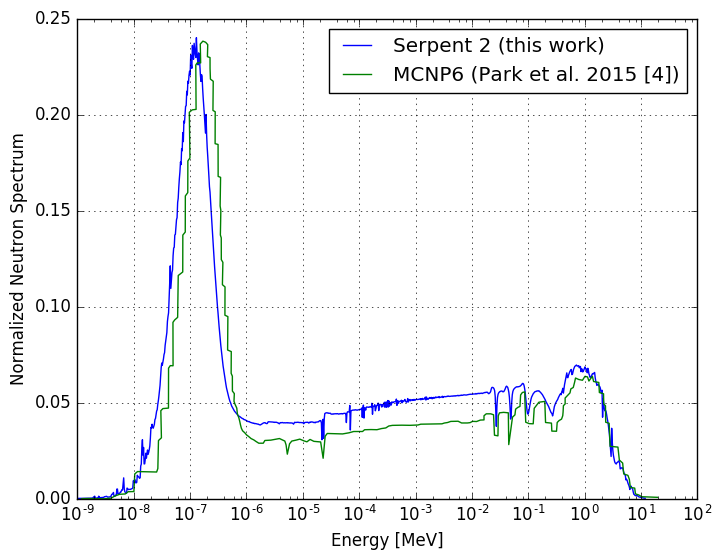
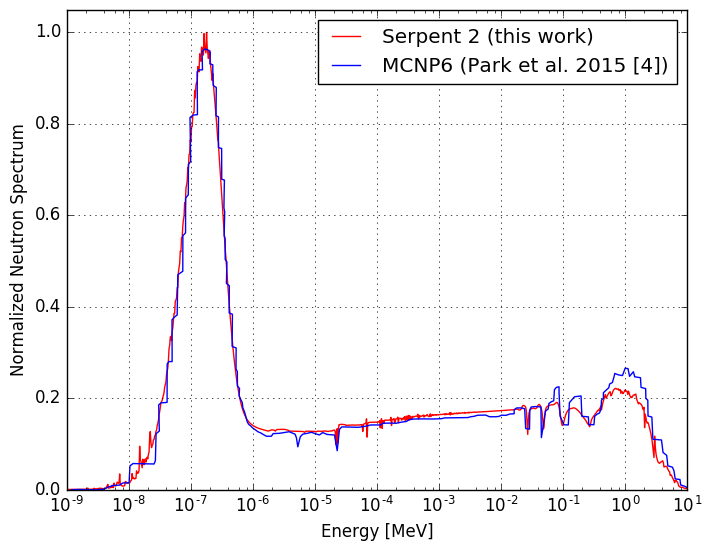
Spectrum and K-eff recalculated with fuel share 13%, reviewers comments accepted

diff --git a/full-core_msbr_model.tex b/full-core_msbr_model.tex
@@ -1,6 +1,6 @@
 \documentclass{anstrans}
 %%%%%%%%%%%%%%%%%%%%%%%%%%%%%%%%%%%
-\title{Full-core analysis of thorium-fueled molten salt breeder reactor using the SERPENT 2 Monte Carlo code}
+\title{Full-core analysis of thorium-fueled Molten Salt Breeder Reactor using the SERPENT 2 Monte Carlo code}
 
 \author{Andrei Rykhlevskii, Alexander Lindsay, Kathryn Huff}
 
@@ -17,88 +17,90 @@ Urbana, IL
 \usepackage{booktabs} % nice rules (thick lines) for tables
 \usepackage{microtype} % improves typography for PDF
 \usepackage[section]{placeins}
+\usepackage[acronym,toc]{glossaries}  % acronyms inclusion
+\include{acros}
 \graphicspath{{figures/}}
-
+\captionsetup{justification   = raggedright,
+              singlelinecheck = false}
 \newcommand{\SN}{S$_N$}
 \renewcommand{\vec}[1]{\bm{#1}} %vector is bold italic
 \newcommand{\vd}{\bm{\cdot}} % slightly bold vector dot
 \newcommand{\grad}{\vec{\nabla}} % gradient
 \newcommand{\ud}{\mathop{}\!\mathrm{d}} % upright derivative symbol
+\makeglossaries
 
 \begin{document}
 %%%%%%%%%%%%%%%%%%%%%%%%%%%%%%%%%%%%%%%%%%%%%%%%%%%%%%%%%%%%%%%%%%%%%%%%%%%%%%%%
 \section{Introduction}
-The molten salt reactor (MSR) is an advanced type of reactor which was developed at Oak Ridge National Laboratory (ORNL) in the 1950s and was operated in the 1960s. In the MSR, fluorides of fissile and/or fertile materials (i.e. $UF_4$, $PuF_3$ and/or $ThF_4$) are mixed with carrier salts to form a liquid fuel which is circulated in a loop-type primary circuit \cite{haubenreich_experience_1970}. This innovation leads to immediate advantages over traditional, solid-fueled, reactors. These include near-atmospheric pressure in the primary loop, relatively high coolant temperature, outstanding neutron economy, a high level of inherent safety, reduced fuel preprocessing, and the ability to continuously remove fission products and add fissile and/or fertile elements \cite{leblanc_molten_2010}. 
+The \gls{MSR} is an advanced type of reactor which was developed at \gls{ORNL} in the 1950s and was operated in the 1960s. In the MSR, fluorides of fissile and/or fertile materials (i.e. UF$_4$, PuF$_3$ and/or ThF$_4$) are mixed with carrier salts to form a liquid fuel which is circulated in a loop-type primary circuit \cite{haubenreich_experience_1970}. This innovation leads to immediate advantages over traditional, solid-fueled, reactors. These include near-atmospheric pressure in the primary loop, relatively high coolant temperature, outstanding neutron economy, a high level of inherent safety, reduced fuel preprocessing, and the ability to continuously remove fission products and add fissile and/or fertile elements \cite{leblanc_molten_2010}. 
 
-The thermal spectrum Molten Salt Breeder Reactor (MSBR) was designed specifically to realize the promise of the thorium fuel cycle which allows the use of natural thorium instead of enriched uranium as the fertile element. Thorium breeds the fissile $^{233}U$ and avoids uranium enrichment. The mixture of $LiF-BeF_2-ThF_4-UF_4-PuF_3$ has a melting point of $499^\circ$C, a low vapor pressure at operating temperatures, and good flow and heat transfer properties \cite{robertson_conceptual_1971}. The MSBR geometry is difficult to describe in computer code input and usually require major approximations to proceed \cite{park_whole_2015}. 
+The thermal spectrum \gls{MSBR} was designed specifically to realize the promise of the thorium fuel cycle which allows the use of natural thorium instead of enriched uranium as the fertile element. Thorium breeds the fissile $^{233}$U and avoids uranium enrichment. The mixture of LiF-BeF$_2$-ThF$_4$-UF$_4$-PuF$_3$ has a melting point of $499^\circ$C, a low vapor pressure at operating temperatures, and good flow and heat transfer properties \cite{robertson_conceptual_1971}. The \gls{MSBR} geometry is difficult to describe in computer code input and usually require major approximations to proceed \cite{park_whole_2015}. 
 
-For the development of MSBR research, this paper demonstrates an advanced whole-core three-dimensional model developed using a continuous-energy the Serpent 2 Monte Carlo reactor physics calculation code and cross-verification with existing MCNP6 results \cite{park_whole_2015,leppanen_serpent_2012}. This neutronics model is of sufficient fidelity to inform optimization of fuel salt composition and fuel utilization, neutron fluxes and spectrum evaluation, and for depletion calculations using built-in Serpent burnup module. Moreover, this model in the future will be employed to generate problem-oriented homogenized nuclear data (multi-group cross sections and diffusion constants) for deterministic reactor codes, multi-physics simulations \cite{fridman_use_2011,valtavirta_coupled_2017}, and for routine applications.
+For the development of MSBR research, this paper demonstrates an advanced whole-core three-dimensional model developed using a continuous-energy the Serpent 2 Monte Carlo reactor physics calculation code and cross-verification with existing MCNP6 results \cite{park_whole_2015,leppanen_serpent_2012}. This neutronics model is of sufficient fidelity to inform optimization of fuel salt composition and fuel utilization, neutron fluxes and spectrum evaluation. Moreover, this model in the future will be employed for depeletion calculations, generation problem-oriented homogenized nuclear data (multi-group cross sections and diffusion constants) for deterministic reactor codes, multi-physics simulations \cite{fridman_use_2011,valtavirta_coupled_2017}, and for routine applications.
 
-All calculations presented in this paper were performed using the Serpent 2 code version 2.1.28. Compared with Serpent 1, Serpent 2 has many more useful features and contains a complete redesign of memory management using hybrid OpenMP + MPI parallelization, which is important in depletion calculations using computer clusters with multiple cores \cite{leppanen_serpent_2015}. Before burnup calculations could be undertaken, MSBR model was verified. In Section 2, a brief description of the MSBR geometry model is given. In Section 3 the results are presented and discussed. Section 4 reflected conclusions and plans for the future research.
+All calculations presented in this paper were performed using the Serpent 2 code version 2.1.28. Compared to Serpent 1, Serpent 2 has many more useful features and contains a complete redesign of memory management using hybrid OpenMP + MPI parallelization, which is important in depletion calculations using computer clusters with multiple cores \cite{leppanen_serpent_2015}. In Section 2, a brief description of the MSBR geometry model is given. In Section 3 the results are presented and discussed. Section 4 reflected conclusions and plans for the future research.
 
 %%%%%%%%%%%%%%%%%%%%%%%%%%%%%%%%%%%%%%%%%%%%%%%%%%%%%%%%%%%%%%%%%%%%%%%%%%%%%%%%
 \section{MSBR design description}
-The MSBR vessel has diameter of 680 cm and a height of 610 cm. It contains molten fluoride fuel-salt mixture which performs two functions: to generate heat in the moderated region and to transport heat energy from the core to primary heat exchanger using the primary salt pump. The vessel also contains graphite blocks for neutron moderation and reflection. The reactor core has a central zone, Zone I, in which 13\% of the volume is fuel salt and 87\% graphite. The first zone is composed of 1320 graphite cells, 2 graphite control rods, and 2 safety rods consisting of boron carbide clad. The undermoderated zone, Zone II, with 37\% fuel salt, and radial reflector, surrounding the more active portion serves to diminish neutron leakage from the reactor core. This zone is formed of two kinds of elements: elements like those in Zone I except for a larger hole size (Zone II-A), and radially spread graphite slats (Zone II-B). At the outer of the core there are graphite reflector and vessel wall. Between the core and the reflector blocks located annulus which is 100\% salt needed to provide possibility removing and inserting a graphite assembly. 
+The MSBR vessel has diameter of 680 cm and a height of 610 cm. It contains molten fluoride fuel-salt mixture which performs two functions: to generate heat in the moderated region and to transport heat energy from the core to primary heat exchanger using the primary salt pump. The vessel also contains graphite blocks for neutron moderation and reflection. The reactor core has a central zone, Zone I, in which 13\% of the volume is fuel salt and 87\% graphite. The first zone is composed of 1320 graphite cells and 4 holes for control rods. Two holes are for graphite control rods which have both regulating and shimming functions for normal operation regimes, and two holes are for safety rods which are primarily for backup to assure sufficient negative reactivity for emergency situations. The undermoderated zone, Zone II, with 37\% fuel salt, and radial reflector, surrounding the more active portion serves to diminish neutron leakage from the reactor core. This zone is formed of two kinds of elements: elements like those in Zone I except for a larger hole size (Zone II-A), and radially spread graphite slats (Zone II-B). At the outer of the core, there are graphite reflector and vessel wall. Zones I and II are surrounded radially and axially by fuel salt. This space for fuel is necessarily for injection and flow of molten salt.
 
-Figure~\ref{fig:plan} shows the plan view of the whole-core configuration at the expected reactor operational level when all control rods are fully withdrawn from the core.  Figure~\ref{fig:elevation} shows the longitudinal section of the reactor. The violet color represents bare graphite, and the yellow represents fuel salt. The blue color shows Hastelloy-N, a material used for the plenum and vessel wall, and the black color is a void space. All figures of the core in this work generated using built-in Serpent plotter.
-\begin{figure}[!htb] % replace 't' with 'b' to force it to be on the bottom
+Fig.~\ref{fig:plan} shows the plan view of the whole-core configuration at the expected reactor operational level when both graphite control rods are fully inserted, and the safety rods are fully withdrawn. The safety rods only get inserted during an accident. 
+\begin{figure}[htbp!] % replace 't' with 'b' to force it to be on the bottom
   \centering
+  \vspace{-0.3em}
+  \includegraphics[width=0.95\linewidth]{figure_2_1.png}
+  \caption{Plan view of \gls{MSBR} core.}
   \vspace{-0.6em}
-  \includegraphics[width=0.93\linewidth]{figure_2_1.png}
-  \caption{Plan view of MSBR core.}
   \label{fig:plan}
 \end{figure}
+\FloatBarrier
+Fig.~\ref{fig:elevation} shows the longitudinal section of the reactor. The violet color represents bare graphite, and the yellow represents fuel salt. The blue color shows Hastelloy-N, a material used for the plenum and vessel wall, and the black color is a void space. In this work, all figures of the core were generated using the built-in Serpent plotter.
 
-\begin{figure}[ht] % replace 't' with 'b' to force it to be on the bottom
+\begin{figure}[htbp!] % replace 't' with 'b' to force it to be on the bottom
   \centering
   \includegraphics[width=\linewidth]{figure_2_2.png}
-  \caption{Elevation view of MSBR core.}
+  \caption{Elevation view of \gls{MSBR} core.}
   \label{fig:elevation}
 \end{figure}
 
 \subsection{Core Zone I and II-A}
-The central portion, called Zone I, is made up of $10.16cm\times10.16cm\times396.24cm$-long graphite elements. The fuel salt to graphite volume ratio of Zone I is 13.2\%, and the central hole has a diameter of $3.42cm$. Zone II has 37\% salt and central hole diameter of $6.604cm$. Both types of elements mostly have a rectangular shape with a part of cylinder sticking out at each corner to form salt flow between the graphite channels. Different sizes of elements are necessary to reduce the peak damage flux and power density in the center of the core to prevent local graphite damage. Figure~\ref{fig:zone12A} demonstrates the reconstructed graphite element utilized for this Monte Carlo model.
+The central portion, called Zone I, is made up of 10.16cm$\times$10.16cm$\times$396.24cm-long graphite elements. The fuel salt to graphite volume ratio of Zone I is 13\%, and the central hole has a diameter of 3.42cm. Zone II has 37\% salt and the central hole diameter of 6.604cm. Both types of elements mostly have a rectangular shape with a part of cylinder sticking out at each corner to form salt flow between the graphite channels. Different sizes of elements are necessary to reduce the peak damage flux and power density in the center of the core to prevent local graphite damage. Figure~\ref{fig:zone12A} demonstrates the elevation and sectional views of graphite elements utilized for this Monte Carlo model.
 
-\begin{figure}[h] % replace 't' with 'b' to force it to be on the bottom
+\subsection{Core Zone II-B}
+The second core zone is divided into two different zones: Zone II-A and Zone II-B. The graphite elements for Zone II-A are prismatic and form the first reflecting layer surrounding the core zone I. Zone II-B elements are in the form of rectangular slats spaced far enough apart to provide the 0.37 fuel salt volume fraction. Fig.~\ref{fig:zone2B} shows the outer Zone II, 5.08cm-wide annular space between the core graphite and the radial reflector graphite. The annulus contains 100\% fuel salt and serves to reduce the damage flux at the internal surface of the graphite reflector blocks. The reactor Zone II-B graphite 5.08cm-thick slats and various length in width (average width is about 26.67cm) are reconstructed as is in the model without any approximation. From the ORNL report \cite{robertson_conceptual_1971}, the suggested design of Zone II-B has 8 graphite elements every 45$^\circ$ with irregular shape as well as holes for the flow of salt and were simplified into a right circular hollow cylinder sector shape with the central hole. This is the only simplification for this model.
+\FloatBarrier
+\begin{figure}[htp!] % replace 't' with 'b' to force it to be on the bottom
   \centering
-  \includegraphics[width=0.96\linewidth]{figure_2_4.png}
+  \includegraphics[width=\linewidth]{figure_2_4.png}
   \caption{Zone I (left) and Zone II-A (right) elements.}
   \label{fig:zone12A}
 \end{figure}
-
-\subsection{Core Zone II-B}
-The second core zone is divided into two different zones: Zone II-A and Zone II-B. The graphite elements for Zone II-A are prismatic and form the first reflecting layer surrounding the core zone I. The elements for zone II-B made up in the form of rectangular slats spaced far enough apart to achieve 0.37 fuel salt volume fraction. Figure~\ref{fig:zone2B} shows the outer Zone II, 5.08cm-wide annular space between the core graphite and the radial reflector graphite. The annulus contains 100\% fuel salt and serves to reduce the damage flux at the internal surface of the graphite reflector blocks. The reactor Zone II-B graphite $5.08cm$-thick slats and various length in width (average width is about $26.67cm$) are reconstructed as is in the model without any approximation. From the ORNL report \cite{robertson_conceptual_1971}, the suggested design of Zone II-B has 8 graphite elements every $45^\circ$ with irregular shape as well as holes for the flow of salt and were simplified into a right circular hollow cylinder sector shape with the central hole. This is only simplification for this model.
-
 \subsection{Material composition}
-The fuel salt, the reactor graphite, and the modified Hastelloy N are exclusive MSBR materials which were created at ORNL. The isotope composition of each material at the initial state was described in detail in the MSBR conceptual design study \cite{robertson_conceptual_1971} and has been applied to Serpent model without any modification. 
-
-\begin{figure}[hb] % replace 't' with 'b' to force it to be on the bottom
+The fuel salt, the reactor graphite, and the modified HastelloyN are materials unique of the MSBR and were created at \gls{ORNL}. The initial fuel salt loading composition is LiF-BeF$_2$-ThF$_4$-$^{233}$UF$_4$ (71.8-16-12-0.2 mole \%). The lithium in the molten salt fuel is a fully enriched $^{7}$Li because $^{6}$Li is a very strong neutron poison and becomes tritium upon neutron capture. For cross section data generation ENDF/B-VII was employed \cite{chadwick_endf/b-vii.0:_2006}. The specific temperature was fixed for each material to correctly model the Doppler-broadening of resonance peaks when Serpent generate problem-oriented nuclear data library.
+%The isotope composition of each material at the initial state was described in detail in the MSBR conceptual design study \cite{robertson_conceptual_1971} and has been applied to Serpent model without any modification. %
+\begin{figure}[htbp!] % replace 't' with 'b' to force it to be on the bottom
   \centering
-  \includegraphics[width=0.93\linewidth]{figure_2_5.png}
+  \includegraphics[width=0.96\linewidth]{figure_2_5.png}
   \caption{Plan view of Zone II-B.}
   \label{fig:zone2B}
 \end{figure}
-
-The initial fuel salt loading composition is $LiF-BeF_2-ThF_4-^{233}UF_4-^{239}PuF_3$ (72-16-12-0.232-0.0006 mole \%). The lithium is enriched to 99.995\% $^{7}Li$ because $^{6}Li$ is a very strong neutron poison and becomes tritium upon neutron bombardment. In this study, the 0.005\% atomic fraction of $^{6}Li$ has been taken into account because even such a small amount of isotope with very high absorption cross section might significantly affect on effective multiplication factor. For cross section data generation ENDF/B-VII was employed \cite{chadwick_endf/b-vii.0:_2006}. %Specific temperature was fixed for each material to correctly model the Doppler-broadening of resonance peaks when Serpent generate problem-oriented nuclear data library.
-
+\FloatBarrier
 %%%%%%%%%%%%%%%%%%%%%%%%%%%%%%%%%%%%%%%%%%%%%%%%%%%%%%%%%%%%%%%%%%%%%%%%%%%%%%%%
 \section{Results and Analysis}
 The reactor physics calculation was carried out using the methods described earlier. This section presents calculation results, such as the effective multiplication factor for whole core, neutron flux spectrum, and temperature reactivity coefficients. The normalized neutron flux distribution is calculated for the whole core using continuous-energy nuclear data which allows to obtaining very smooth distribution. The temperature coefficients for both fuel salt solution and reactor graphite are computed by comparing effective multiplication factors for two temperatures in the working range.
-
-The MSBR criticality simulations were performed on one Intel Xeon E3-1225 3.3GHz processor wich has four physical cores. Each simulation took 23 minutes or 92 minutes per one core. A similar whole-core MSBR simulation using MCNP6 required approximately 890 minutes per core \cite{park_whole_2015}, consequently, Serpent 2 can provide tremendous computer costs savings for compute-heavy depletion calculations.
-
+ 	
 \subsection{Neutron spectrum}
-Figure~\ref{fig:spectrum} demonstrates the normalized neutron flux spectrum for the whole core in the energy range from $10^{-10}$ to $100 MeV$. The results show close fit with the MCNP simulation \cite{park_whole_2015}, especially in thermal energy range. 
+Fig.~\ref{fig:spectrum} demonstrates the normalized neutron flux spectrum for the whole core in the energy range from $10^{-9}$ to $10$ MeV. The results show close fit with the MCNP simulation \cite{park_whole_2015}, especially in thermal energy range. 
 \begin{figure}[h!] % replace 't' with 'b' to force it to be on the bottom
   \centering
-  \includegraphics[width=\linewidth]{figure_3_1.png} 
+  \includegraphics[width=1.05\linewidth]{figure_3_1.png} 
   \caption{Neutron flux spectrum of MSBR for MCNP6 and Serpent 2 model.}
   \label{fig:spectrum}
 \end{figure}
-It is important to obtain the epithermal and thermal spectrum to produce $^{233}U$ from $^{232}Th$ because radiative capture cross section of thorium monotonically decreasing from $10^{-10} MeV$ to $10^{-5} MeV$. Hardening the spectrim tends to significantly increasing resonance absorbtion in thorium and decreasing the absorptions in fissile and construction materials thus large amount of fissile material will be needed to make the reactor critical.
+It is important to obtain the epithermal and thermal spectrum to produce $^{233}$U from $^{232}$Th because radiative capture cross section of thorium monotonically decreasing from $10^{-10}$ MeV to $10^{-5}$ MeV. Hardening the spectrum tends to significantly increase resonance absorption in thorium and decreasing the absorptions in fissile and construction materials thus large amount of fissile material will be needed to make the reactor critical.
 
 \subsection{Effective multiplication factor}
-Table~\ref{tab:keff} shows the effective multiplication factor for both MCNP6 and Serpent 2 whole core models. The coefficient obtained using Serpent 2 is about 4.37\% higher than MCNP6 one. The discrepancy was ocurred most likely because the model used in Park et al. didn't take into account $^{239}PuF_3$, contained in the fuel salt solution. Plutonium-239 has very high fission cross section in thermal energy range and produce more neutrons per fission than $^{233}U$, consequently, multiplication factor for this case is higher.
+Table~\ref{tab:keff} shows the effective multiplication factor for both MCNP6 and Serpent 2 whole core models. The factor obtained using Serpent 2 is about 300 pcm lower than MCNP6 one, while standard deviations are 5 and 9 pcm, respectively. The discrepancy might occurred because the model used in Park \emph{et al.} has few simplification in Zone II geometry.
 %%%%%%%%%%%%%%%%%%%%%%%%%%%%%%%%%%%%%%%%
 \captionsetup[table]{
   labelsep = newline,
@@ -109,19 +111,19 @@ Table~\ref{tab:keff} shows the effective multiplication factor for both MCNP6 an
   skip = \medskipamount}
 \begin{table}[h!]
 %\centering
+\caption{Effective multiplication factor of whole core model.}
 \begin{tabular}{p{0.15\linewidth} p{0.3\linewidth} p{0.3\linewidth}} \toprule
       & Serpent2      & MCNP6 \cite{park_whole_2015}          
 \\ \midrule
-$K_{eff}$  & $1.05134\pm0.00116$ & $1.00736$
+K$_{eff}$  & 1.00389$\pm$0.00005 & 1.00736$\pm$0.00009
 \\
 \bottomrule
 \end{tabular}
-  \caption{Effective multiplication factor of whole core model.}
   \label{tab:keff}
 \end{table}
 %%%%%%%%%%%%%%%%%%%%%%%%%%%%%%%%%%%%%%%%%%%%%%%%%%%%%%%%%%%%%%%%%%%%%%%%%%%%%%%%
 \subsection{Temperature effect of reactivity}
-Table~\ref{tab:tcoef} represents the quantitive analysis of temperature effects on reactivity. Uncertainty for each temperature coefficient also was calculated and shown in Table~\ref{tab:tcoef}. The main physical principle underlying the reactor temperature feedback is expandsion of matter when it is heated. When the fuel salt temperature increases, the density of the salt decreases, but at the same time, the total volume of fuel salt in the core remains constant because it is defined by the space for fuel bounded by the graphite. When the reactor graphite temperature grows, the density of graphite declines which also frees up space for fuel salt. To determine temperature coefficients, three cases were considered:
+Table~\ref{tab:tcoef} represents the quantitive analysis of temperature effects on reactivity. Uncertainty for each temperature coefficient also was calculated and shown in Table~\ref{tab:tcoef}. The main physical principle underlying the reactor temperature feedback is an expansion of matter when it is heated. When the fuel salt temperature increases, the density of the salt decreases, but at the same time, the total volume of fuel salt in the core remains constant because it is defined by the space for fuel bounded by the graphite. When the reactor graphite temperature grows, the density of graphite declines which also frees up space for fuel salt. To determine temperature coefficients the cross-section temperatures for fuel and moderator were changed from 900K to 1200K. Three different cases were considered:
 \begin{enumerate}  
 \item Temperature of fuel salt rising from 900K to 1200K.
 \item Temperature of graphite rising from 900K to 1200K. 
@@ -138,29 +140,29 @@ Table~\ref{tab:tcoef} represents the quantitive analysis of temperature effects 
   skip = \medskipamount}
 \begin{table}[h!]
 %\centering
+  \caption{Temperature coefficients of reactivity.}
 \begin{tabular}{p{0.22\linewidth} p{0.22\linewidth} p{0.21\linewidth} p{0.15\linewidth}} \toprule
    Reactivity coefficient [pcm/K]  & Serpent2      & MCNP6 \cite{park_whole_2015}   & Reference \cite{robertson_conceptual_1971}      
 \\ \midrule
-Fuel salt        & $-3.93\pm0.005$ & $-3.20\pm0.05$ & $-3.22$ 
+Fuel salt        & $-3.70\pm0.016$ & $-3.20\pm0.05$ & $-3.22$ 
 \\ \midrule
-Moderator        & $+2.44\pm0.013$ & $-0.11\pm0.05$ & $+2.35$ 
+Moderator        & $+2.33\pm0.027$ & $-0.11\pm0.05$ & $+2.35$ 
 \\ \midrule
-Total            & $-1.74\pm0.030$ & $-3.21\pm0.04$ & $-0.87$ 
+Total            & $-1.57\pm0.033$ & $-3.21\pm0.04$ & $-0.87$ 
 \\
 \bottomrule
 \end{tabular}
-  \caption{Temperature coefficients of reactivity.}
   \label{tab:tcoef}
 \end{table}
 %%%%%%%%%%%%%%%%%%%%%%%%%%%%%%%%%%%%%%%%%%%%%%%%%%%%%%%%%%%%%%%%%%%%%%%%%%%%%%%%
-On the one hand, changes in fuel temperature cause only density variation, geometry keeps the same because fuel is in the form of liquid. On the other hand, when moderator heats up both the density and the geometry changes due to thermal expansion of the graphite blocks and the reflector. New graphite density was calculated using linear temperature expansion coefficient of reactor graphite which is $1.3\times10^{-6}1/K$ \cite{robertson_conceptual_1971}. Based on this information new geometry input, which takes into account graphite expansion, was created.
+On the one hand, changes in fuel temperature cause only density variation, geometry keeps the same because fuel is in the form of liquid. On the other hand, when moderator heats up both the density and the geometry changes due to thermal expansion of the graphite blocks and the reflector. New graphite density was calculated using linear temperature expansion coefficient of reactor graphite which is 1.3$\times10^{-6}$1/K \cite{robertson_conceptual_1971}. Based on this information new geometry input, which takes into account graphite expansion, was created.
 
-The fuel temperature coefficient (FTC) is positive due to thermal Doppler broadening of the resonance capture cross sections in the thorium and is in a good agreement with early research \cite{robertson_conceptual_1971,park_whole_2015}. The moderator temperature coefficient is negative due to changing density, and would increases during reactor operation because of spectrum hardening along with fuel depletion \cite{park_whole_2015}. Finally, the total temperature coefficient of reactivity is relatively large and negative, despite graphite components, and affords excellent reactor stability and controllability.
+The fuel temperature coefficient (FTC) is positive due to thermal Doppler broadening of the resonance capture cross sections in the thorium and is in a good agreement with early research \cite{robertson_conceptual_1971,park_whole_2015}. The moderator temperature coefficient is negative due to changing density and would increases during reactor operation because of spectrum hardening along with fuel depletion \cite{park_whole_2015}. Finally, the total temperature coefficient of reactivity is relatively large and negative, despite graphite components, and affords excellent reactor stability and controllability.
 %%%%%%%%%%%%%%%%%%%%%%%%%%%%%%%%%%%%%%%%%%%%%%%%%%%%%%%%%%%%%%%%%%%%%%%%%%%%%%%%
 \section{Conclusions}
-The MSBR full-core analysis was performed using the Serpent 2 Monte Carlo code. The complex geometry of the reactor is reconstructed in three-dimensional space without any major approximations. Accurate material data was employed to calculate reactor key design parameters. The effective multiplication factor for initial fuel composition is slightly higher than 1 (1.05) which allows reactor operation from startup to first online reprocessing cycle. The neutron flux energy spectrum was calculated for the whole core and represents the epithermal spectrum of the MSBR. The total temperature coefficient is negative, consequently, the MSBR has negative temperature feedback, but MTC is negative which has a negligible effect on safety because it is outweighed by the strong, negative FTC.
+The MSBR full-core analysis was performed using the Serpent 2 Monte Carlo code. The complex geometry of the reactor is reconstructed in three-dimensional space without any major approximations. Accurate material data was employed to calculate reactor key design parameters. The effective multiplication factor for initial fuel composition is slightly higher than 1 (1.00389) which allows reactor operation from startup to first online reprocessing cycle. The neutron flux energy spectrum was calculated for the whole core and represents the epithermal spectrum of the MSBR. The total temperature coefficient is negative, consequently, the MSBR has negative temperature feedback, but MTC is negative which has a negligible effect on safety because it is outweighed by the strong, negative FTC.
 
-This high-fidelity full-core model will be employed for a number of future efforts. First, depletion simulation will be performed using built-in Serpent 2 depletion capabilities to find the equilibrium state of the MSBR, its optimal fuel salt composition, reprocessing characteristics (i.e. rates of removing fission products, the rate of adding thorium), and fuel utilization. Secondly, the model will be used to generate problem-oriented nuclear data libraries for multi-physics models of MSRs developed in the MOOSE-based coupled neutronics/thermal-hydraulics code Moltres \cite{lindsay_arfc/moltres:_2017}. Finally, transient accident simulations for safety investigation of the reactor core will be performed to study the dynamic behavior of Molten Salt Breeder Reactor. 
+This high-fidelity full-core model will be employed for a number of future efforts. First, depletion simulation will be performed using built-in Serpent 2 depletion capabilities to find the equilibrium state of the MSBR, its optimal fuel salt composition, reprocessing characteristics (i.e. rates of removing fission products, the rate of adding thorium), and fuel utilization. Secondly, the model will be used to generate problem-oriented nuclear data libraries for multi-physics models of \glspl{MSR} developed in the MOOSE-based coupled neutronics/thermal-hydraulics code Moltres \cite{lindsay_arfc/moltres:_2017}. Finally, transient accident simulations for safety investigation of the reactor core will be performed to study the dynamic behavior of Molten Salt Breeder Reactor. 
 
 
 %%%%%%%%%%%%%%%%%%%%%%%%%%%%%%%%%%%%%%%%%%%%%%%%%%%%%%%%%%%%%%%%%%%%%%%%%%%%%%%%

diff --git a/acros.tex b/acros.tex
@@ -1,0 +1,158 @@
+%\newacronym{<++>}{<++>}{<++>}
+\newacronym[longplural={metric tons of heavy metal}]{MTHM}{MTHM}{metric ton of heavy metal}
+\newacronym{ABM}{ABM}{agent-based modeling}
+\newacronym{ACDIS}{ACDIS}{Program in Arms Control \& Domestic and International Security}
+\newacronym{AHTR}{AHTR}{Advanced High Temperature Reactor}
+\newacronym{ANDRA}{ANDRA}{Agence Nationale pour la gestion des D\'echets RAdioactifs, the French National Agency for Radioactive Waste Management}
+\newacronym{ANL}{ANL}{Argonne National Laboratory}
+\newacronym{ANS}{ANS}{American Nuclear Society}
+\newacronym{API}{API}{application programming interface}
+\newacronym{ARE}{ARE}{Aircraft Reactor Experiment}
+\newacronym{ARFC}{ARFC}{Advanced Reactors and Fuel Cycles}
+\newacronym{ASME}{ASME}{American Society of Mechanical Engineers}
+\newacronym{ATWS}{ATWS}{Anticipated Transient Without Scram}
+\newacronym{BDBE}{BDBE}{Beyond Design Basis Event}
+\newacronym{BIDS}{BIDS}{Berkeley Institute for Data Science}
+\newacronym{CAFCA}{CAFCA}{ Code for Advanced Fuel Cycles Assessment }
+\newacronym{CDTN}{CDTN}{Centro de Desenvolvimento da Tecnologia Nuclear}
+\newacronym{CEA}{CEA}{Commissariat \`a l'\'Energie Atomique et aux \'Energies Alternatives}
+\newacronym{CI}{CI}{continuous integration}
+\newacronym{CNEN}{CNEN}{Comiss\~{a}o Nacional de Energia Nuclear}
+\newacronym{CNERG}{CNERG}{Computational Nuclear Engineering Research Group}
+\newacronym{COSI}{COSI}{Commelini-Sicard}
+\newacronym{COTS}{COTS}{commercial, off-the-shelf}
+\newacronym{CSNF}{CSNF}{commercial spent nuclear fuel}
+\newacronym{CTAH}{CTAHs}{Coiled Tube Air Heaters}
+\newacronym{CUBIT}{CUBIT}{CUBIT Geometry and Mesh Generation Toolkit}
+\newacronym{CURIE}{CURIE}{Centralized Used Fuel Resource for Information Exchange}
+\newacronym{DAG}{DAG}{directed acyclic graph}
+\newacronym{DANESS}{DANESS}{Dynamic Analysis of Nuclear Energy System Strategies}
+\newacronym{DBE}{DBE}{Design Basis Event}
+\newacronym{DESAE}{DESAE}{Dynamic Analysis of Nuclear Energy Systems Strategies}
+\newacronym{DHS}{DHS}{Department of Homeland Security}
+\newacronym{DOE}{DOE}{Department of Energy}
+\newacronym{DRACS}{DRACS}{Direct Reactor Auxiliary Cooling System}
+\newacronym{DRE}{DRE}{dynamic resource exchange}
+\newacronym{DSNF}{DSNF}{DOE spent nuclear fuel}
+\newacronym{DYMOND}{DYMOND}{Dynamic Model of Nuclear Development }
+\newacronym{EBS}{EBS}{Engineered Barrier System}
+\newacronym{EDF}{EDF}{Électricité de France}
+\newacronym{EDZ}{EDZ}{Excavation Disturbed Zone}
+\newacronym{EIA}{EIA}{U.S. Energy Information Administration}
+\newacronym{EPA}{EPA}{Environmental Protection Agency}
+\newacronym{EPR}{EPR}{European Pressurized Reactors}
+\newacronym{EP}{EP}{Engineering Physics}
+\newacronym{EU}{EU}{European Union}
+\newacronym{FCO}{FCO}{Fuel Cycle Options}
+\newacronym{FCT}{FCT}{Fuel Cycle Technology}
+\newacronym{FEHM}{FEHM}{Finite Element Heat and Mass Transfer}
+\newacronym{FEPs}{FEPs}{Features, Events, and Processes}
+\newacronym{FHR}{FHR}{Fluoride-Salt-Cooled High-Temperature Reactor}
+\newacronym{FLiBe}{FLiBe}{Fluoride-Lithium-Beryllium}
+\newacronym{FP}{FP}{Fission Products}
+\newacronym{GDSE}{GDSE}{Generic Disposal System Environment}
+\newacronym{GDSM}{GDSM}{Generic Disposal System Model}
+\newacronym{GENIUSv1}{GENIUSv1}{Global Evaluation of Nuclear Infrastructure Utilization Scenarios, Version 1}
+\newacronym{GENIUSv2}{GENIUSv2}{Global Evaluation of Nuclear Infrastructure Utilization Scenarios, Version 2}
+\newacronym{GENIUS}{GENIUS}{Global Evaluation of Nuclear Infrastructure Utilization Scenarios}
+\newacronym{GPAM}{GPAM}{Generic Performance Assessment Model}
+\newacronym{GRSAC}{GRSAC}{Graphite Reactor Severe Accident Code}
+\newacronym{GUI}{GUI}{graphical user interface}
+\newacronym{HLW}{HLW}{high level waste}
+\newacronym{HPC}{HPC}{high-performance computing}
+\newacronym{HTC}{HTC}{high-throughput computing}
+\newacronym{HTGR}{HTGR}{High Temperature Gas-Cooled Reactor}
+\newacronym{IAEA}{IAEA}{International Atomic Energy Agency}
+\newacronym{IEMA}{IEMA}{Illinois Emergency Mangament Agency}
+\newacronym{IHLRWM}{IHLRWM}{International High Level Radioactive Waste Management}
+\newacronym{INL}{INL}{Idaho National Laboratory}
+\newacronym{IPRR1}{IRP-R1}{Instituto de Pesquisas Radioativas Reator 1}
+\newacronym{IRP}{IRP}{Integrated Research Project}
+\newacronym{ISFSI}{ISFSI}{Independent Spent Fuel Storage Installation}
+\newacronym{ISRG}{ISRG}{Independent Student Research Group}
+\newacronym{JFNK}{JFNK}{Jacobian-Free Newton Krylov}
+\newacronym{LANL}{LANL}{Los Alamos National Laboratory}
+\newacronym{LBNL}{LBNL}{Lawrence Berkeley National Laboratory}
+\newacronym{LCOE}{LCOE}{levelized cost of electricity}
+\newacronym{LDRD}{LDRD}{laboratory directed research and development}
+\newacronym{LFR}{LFR}{Lead-Cooled Fast Reactor}
+\newacronym{LLNL}{LLNL}{Lawrence Livermore National Laboratory}
+\newacronym{LMFBR}{LMFBR}{Liquid Metal Fast Breeder Reactor}
+\newacronym{LOFC}{LOFC}{Loss of Forced Cooling}
+\newacronym{LOHS}{LOHS}{Loss of Heat Sink}
+\newacronym{LOLA}{LOLA}{Loss of Large Area}
+\newacronym{LP}{LP}{linear program}
+\newacronym{LWR}{LWR}{Light Water Reactor}
+\newacronym{MAGNOX}{MAGNOX}{Magnesium Alloy Graphie Moderated Gas Cooled Uranium Oxide Reactor}
+\newacronym{MA}{MA}{minor actinide}
+\newacronym{MCNP}{MCNP}{Monte Carlo N-Particle code}
+\newacronym{MILP}{MILP}{mixed-integer linear program}
+\newacronym{MIT}{MIT}{the Massachusetts Institute of Technology}
+\newacronym{MOAB}{MOAB}{Mesh-Oriented datABase}
+\newacronym{MOOSE}{MOOSE}{Multiphysics Object-Oriented Simulation Environment}
+\newacronym{MOX}{MOX}{mixed oxide}
+\newacronym{MSBR}{MSBR}{Molten Salt Breeder Reactor}
+\newacronym{MSRE}{MSRE}{Molten Salt Reactor Experiment}
+\newacronym{MSR}{MSR}{Molten Salt Reactor}
+\newacronym{NAGRA}{NAGRA}{National Cooperative for the Disposal of Radioactive Waste}
+\newacronym{NEAMS}{NEAMS}{Nuclear Engineering Advanced Modeling and Simulation}
+\newacronym{NEUP}{NEUP}{Nuclear Energy University Programs}
+\newacronym{NFCSim}{NFCSim}{Nuclear Fuel Cycle Simulator}
+\newacronym{NGNP}{NGNP}{Next Generation Nuclear Plant}
+\newacronym{NMWPC}{NMWPC}{Nuclear MW Per Capita}
+\newacronym{NNSA}{NNSA}{National Nuclear Security Administration}
+\newacronym{NPP}{NPP}{Nuclear Power Plant}
+\newacronym{NPRE}{NPRE}{Department of Nuclear, Plasma, and Radiological Engineering}
+\newacronym{NQA1}{NQA-1}{Nuclear Quality Assurance - 1}
+\newacronym{NRC}{NRC}{Nuclear Regulatory Commission}
+\newacronym{NSF}{NSF}{National Science Foundation}
+\newacronym{NSSC}{NSSC}{Nuclear Science and Security Consortium}
+\newacronym{NUWASTE}{NUWASTE}{Nuclear Waste Assessment System for Technical Evaluation}
+\newacronym{NWF}{NWF}{Nuclear Waste Fund}
+\newacronym{NWTRB}{NWTRB}{Nuclear Waste Technical Review Board}
+\newacronym{OCRWM}{OCRWM}{Office of Civilian Radioactive Waste Management}
+\newacronym{ORION}{ORION}{ORION}
+\newacronym{ORNL}{ORNL}{Oak Ridge National Laboratory}
+\newacronym{PARCS}{PARCS}{Purdue Advanced Reactor Core Simulator}
+\newacronym{PBAHTR}{PB-AHTR}{Pebble Bed Advanced High Temperature Reactor}
+\newacronym{PBFHR}{PB-FHR}{Pebble-Bed Fluoride-Salt-Cooled High-Temperature Reactor}
+\newacronym{PEI}{PEI}{Peak Environmental Impact}
+\newacronym{PH}{PRONGHORN}{PRONGHORN}
+\newacronym{PRIS}{PRIS}{Power Reactor Information System}
+\newacronym{PRKE}{PRKE}{Point Reactor Kinetics Equations}
+\newacronym{PSPG}{PSPG}{Pressure-Stabilizing/Petrov-Galerkin}
+\newacronym{PWAR}{PWAR}{Pratt and Whitney Aircraft Reactor}
+\newacronym{PWR}{PWR}{Pressurized Water Reactor}
+\newacronym{PyNE}{PyNE}{Python toolkit for Nuclear Engineering}
+\newacronym{PyRK}{PyRK}{Python for Reactor Kinetics}
+\newacronym{QA}{QA}{quality assurance}
+\newacronym{RDD}{RD\&D}{Research Development and Demonstration}
+\newacronym{RD}{R\&D}{Research and Development}
+\newacronym{RELAP}{RELAP}{Reactor Excursion and Leak Analysis Program}
+\newacronym{RIA}{RIA}{Reactivity Insertion Accident}
+\newacronym{RIF}{RIF}{Region-Institution-Facility}
+\newacronym{SFR}{SFR}{Sodium-Cooled Fast Reactor}
+\newacronym{SINDAG}{SINDA{\textbackslash}G}{Systems Improved Numerical Differencing Analyzer $\backslash$ Gaski}
+\newacronym{SKB}{SKB}{Svensk K\"{a}rnbr\"{a}nslehantering AB}
+\newacronym{SNF}{SNF}{spent nuclear fuel}
+\newacronym{SNL}{SNL}{Sandia National Laboratory}
+\newacronym{STC}{STC}{specific temperature change}
+\newacronym{SUPG}{SUPG}{Streamline-Upwind/Petrov-Galerkin}
+\newacronym{SWF}{SWF}{Separations and Waste Forms}
+\newacronym{SWU}{SWU}{Separative Work Unit}
+\newacronym{TRIGA}{TRIGA}{Training Research Isotope General Atomic}
+\newacronym{TRISO}{TRISO}{Tristructural Isotropic}
+\newacronym{TSM}{TSM}{Total System Model}
+\newacronym{TSPA}{TSPA}{Total System Performance Assessment for the Yucca Mountain License Application}
+\newacronym{ThOX}{ThOX}{thorium oxide}
+\newacronym{UFD}{UFD}{Used Fuel Disposition}
+\newacronym{UML}{UML}{Unified Modeling Language}
+\newacronym{UOX}{UOX}{uranium oxide}
+\newacronym{UQ}{UQ}{uncertainty quantification}
+\newacronym{US}{US}{United States}
+\newacronym{UW}{UW}{University of Wisconsin}
+\newacronym{VISION}{VISION}{the Verifiable Fuel Cycle Simulation Model}
+\newacronym{VVER}{VVER}{Voda-Vodyanoi Energetichesky Reaktor (Russian Pressurized Water Reactor)}
+\newacronym{VV}{V\&V}{verification and validation}
+\newacronym{WIPP}{WIPP}{Waste Isolation Pilot Plant}
+\newacronym{YMR}{YMR}{Yucca Mountain Repository Site}
